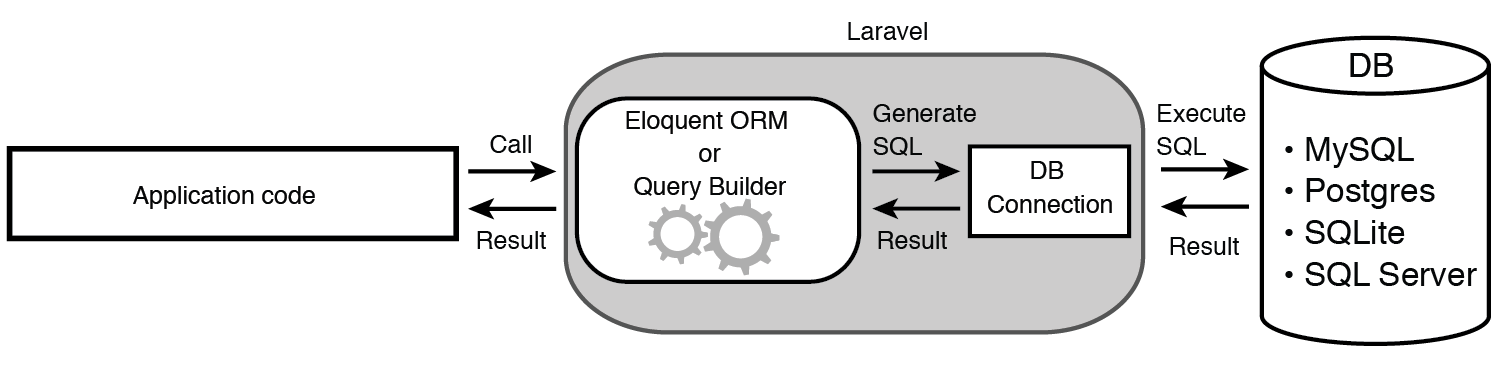
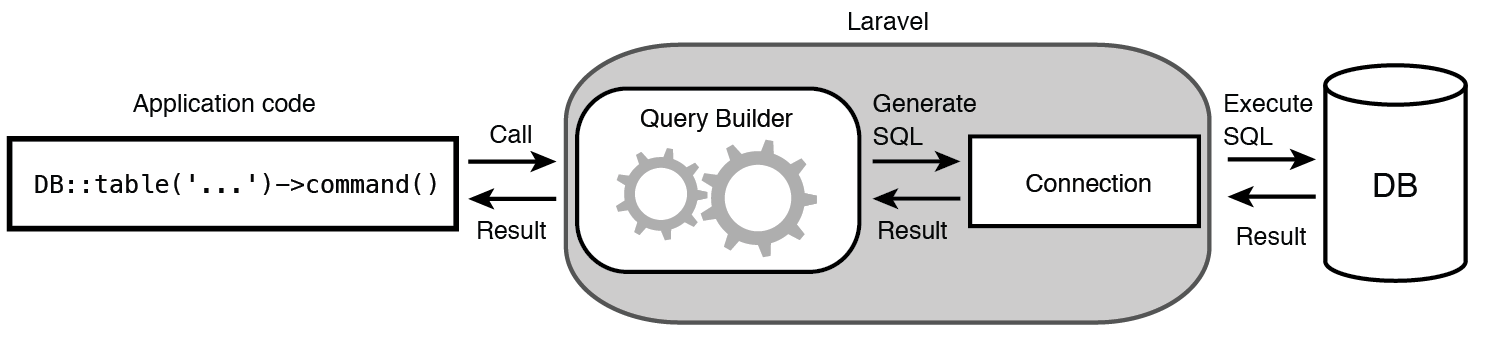
:memo: 完成一部分 using-query-builder

diff --git a/using-query-builder.md b/using-query-builder.md
@@ -1,9 +1,246 @@
 # Laravel Query Builder 原理及用法
 
+>本文翻译自 [《Laravel - My first framework》](https://leanpub.com/laravel-first-framework/)
+
 从 `CURD` 到 `排序` 和 `过滤`，`Query Builder` 提供了方便的操作符来处理数据库中的数据。这些操作符大多数可以组合在一起，以充分利用单个查询。
 
-`Laravel` 一般使用 `DB` facade 来进行数据库查询。当我们执行 `DB` 的「命令」时，`Query Builder` 会构建一个 SQL 查询，该查询将根据 `table()` 方法中指定的表执行查询。
+`Laravel` 一般使用 `DB` facade 来进行数据库查询。当我们执行 `DB` 的「命令」(、或者说「操作符」)时，`Query Builder` 会构建一个 SQL 查询，该查询将根据 `table()` 方法中指定的表执行查询。
 
 ![Executing database operations using Query Builder](./figures/using-query-builder-1.png)
 
 该查询将使用 `app/config/database.php` 文件中指定的数据库连接执行。 查询执行的结果将返回：检索到的记录、布尔值或一个空结果集。
+
+下表中是 `Query Builder` 的常用操作符：
+
+<table>
+    <tr>
+        <td>操作符</td>
+        <td>描述</td>
+    </tr>
+    <tr>
+        <td>insert(array(...))</td>
+        <td>接收包含字段名和值的数组，插入数据至数据库</td>
+    </tr>
+    <tr>
+        <td>find($id)</td>
+        <td>检索一个主键 id 等于给定参数的记录</td>
+    </tr>
+    <tr>
+        <td>update(array(...))</td>
+        <td>接收含有字段名和值的数组，更新已存在的记录</td>
+    </tr>
+    <tr>
+        <td>delete()</td>
+        <td>删除一条记录</td>
+    </tr>
+    <tr>
+        <td>get()</td>
+        <td>返回一个 Illuminate\Support\Collection 结果，其中每个结果都是一个 PHP StdClass 对象的实例，实例中包含每行记录中的列名及其值</td>
+    </tr>
+    <tr>
+        <td>take($number)</td>
+        <td>限制查询结果数量</td>
+    </tr>
+</table>
+
+接下来，将讲解 `Query Builder` 的各种操作。
+
+# Inserting records - 插入
+`insert` 操作符将新行（记录）插入到现有表中。我们可以通过提供数据数组作为 `insert` 运算符的参数来指定要插入到表中的数据。
+
+假设有一个 `orders` 表：
+<table>
+    <tr>
+        <td>Key</td>
+        <td>Column</td>
+        <td>Type</td>
+    </tr>
+    <tr>
+        <td>primary</td>
+        <td>id</td>
+        <td>int (11), auto-incrementing</td>
+    </tr>
+    <tr>
+        <td></td>
+        <td>price</td>
+        <td>int (11)</td>
+    </tr>
+    <tr>
+        <td></td>
+        <td>product</td>
+        <td>varchar(255)</td>
+    </tr>
+</table>
+
+## 插入单行数据
+把数据数组传给 `insert` 操作符，来告诉 `Query Builder` 插入新行：
+```php
+DB::table('orders')->insert(
+    [
+        'price' => 200, // 设置 price 字段值
+        'product' => 'Console', // 设置 product 字段值
+    ]
+);
+```
+
+`Query Builder`将 `insert` 命令转换为特定于 `database.php` 配置文件中指定的数据库的 SQL 查询。 作为参数传递给 `insert` 命令的数据将以参数的形式放入 SQL 查询中。 然后，SQL 查询将在指定的表 "orders" 上执行，执行结果将返回给调用者。  
+下图说明了整个过程：
+
+![Behind the scenes process of running “insert” operator](./using-query-builder-2.png)
+
+>可以看到，Laravel 使用 PDO 来执行 SQL 语句。通过为数据添加占位符来使用准备好的语句可以增强 SQL 注入的保护性，并增加数据插入和更新的安全性。
+
+## 插入多行数据
+`Query Builder` 的 `insert` 操作符同样可用于插入多行数据。 传递一个包含数组的数组可以插入任意数量的行：
+
+```php
+DB::table('orders')->insert(
+    [
+        ['price' => 400, 'product' => 'Laptop'],
+        ['price' => 200, 'product' => 'Smartphone'],
+        ['price' => 50, 'product' => 'Accessory'],
+    ]
+);
+```
+
+此 `insert` 语句将创建三个新记录，Laravel 构建的 SQL 查询是：
+```
+insertinto`orders`(`price`,`product`)values(?,?),(?,?),(?,?)
+```
+
+>可以看到， Laravel 聪明地在一个查询中插入三行数据，而不是运行三个单独的查询。 
+
+# Retrieving records - 检索
+
+`Query Builder` 提供了多种从数据库获取数据的操作符，以灵活的适应许多不同的情况，例如：
+
+*   检索单个记录
+*   检索表中的所有记录
+*   仅检索表中所有记录的特定列
+*   检索表中有限数量的记录
+
+## 检索单个记录
+
+可以使用 `find` 操作符从表中检索单个记录。只需提供要检索的记录的主键的值作为 `find` 的参数，Laravel 将返回该记录作为对象。如果未找到该记录，则返回 `NULL`。
+
+```php
+$order = DB::table('orders')->find(3); 
+
+/*
+object(stdClass)#157 (3) {
+    ["id"]=>string(1) "3"
+    ["price"]=>string(3) "200"
+    ["product"]=>string(10) "Smartphone"
+ }
+ */
+```
+
+> 注意： `find` 操作符以 `id` 作为主键进行查询，如想使用别的主键，请使用其它操作符。
+
+Laravel 构建的 SQL 查询是：
+```
+select * from `orders` where `id` = ? limit 1
+```
+
+## 检索表中的所有记录
+要从表中检索所有记录，可以使用 `get` 操作符而不用任何参数。在指定的表上运行 `get` (前面没有别的操作符) 将会将该表中的所有记录作为对象数组返回。
+
+```php
+$orders = DB::table('orders')->get();
+
+/*
+array(4) { [0]=>
+    object(stdClass)#157 (3) { 
+        ["id"]=>string(1) "1"
+        ["price"]=>string(3) "200"
+        ["product"]=>string(7) "Console"
+    }
+    
+    ... 3 more rows returned as objects ...
+}
+*/
+```
+
+Laravel 构建的 SQL 查询是：
+```
+select * from `orders`
+```
+
+## 检索仅包含特定列的所有记录
+将所需的列名作为参数数组传递给 `get` 运算符，可获得表中所有记录的特定列。
+
+```php
+$orders = DB::table('orders')->get(['id','price']);
+
+/*
+array(4) { [0]=>
+    object(stdClass)#157 (2) {
+        ["id"]=>string(1) "1"
+        ["price"]=>string(3) "200"
+    }
+    ... 3 more rows returned as objects ... 
+}
+*/
+```
+
+Laravel 构建的 SQL 查询是：
+```
+select `id`, `price` from `orders`
+```
+
+## 检索表中有限数量的记录
+要指定要从表中获取的最大记录数，可以使用 `take` 操作符，并将 `get` 附加到查询中。
+
+```php
+$orders = DB::table('orders')->take(50)->get();
+```
+
+$orders 数组中最多有 50 条数据。
+
+# Updating records - 更新
+
+使用 `Query Builder` 更新记录与创建新记录非常相似。要更新现有记录或一组记录的数据，可以将操作符 `update` 附加到查询中，并将一个新数据数组作为参数传递给它。同时可以使用查询链定位要更新的特定记录。
+
+## 更新特定记录
+
+使用 `where` 操作符来指定特定记录并更新：
+```php
+DB::table('orders')
+    ->where('price','>','50')
+    ->update(['price' => 100]);
+```
+
+Laravel 构建的 SQL 查询是：
+```
+update `orders` set `price` = ? where `price` > ?
+```
+
+## 更新所有记录
+如果不限定条件直接使用 `update` ，将更新表中所有记录：
+
+```php
+DB::table('orders')->update(['product'=>'Headphones']);
+```
+
+Laravel 构建的 SQL 查询是：
+```
+update `orders` set `product` = ?
+```
+
+# Deleting records - 删除
+使用 `Query Builder` 从表中删除记录遵循与更新记录相同的模式。 可以使用 `delete` 操作符删除与某些条件匹配的特定记录或删除所有记录。
+
+## 删除特定记录
+使用 `where` 操作符来指定要删除的特定记录：
+
+```php
+DB::table('orders')
+    ->where('product','=','Smartphone')
+    ->delete();
+```
+
+Laravel 构建的 SQL 查询是：
+```
+delete from `orders` where `product` = ?
+```
+

diff --git a/introduction-to-query-builder-and-eloquent.md b/introduction-to-query-builder-and-eloquent.md
@@ -6,6 +6,8 @@
 * Query Builder - 查询构造器
 * Eloquent ORM
 
+![Database operations in Laravel](./introduction-to-query-builder-and-eloquent-1.png)
+
 我们可以单独使用这两个功能，或两者结合起来，以更灵活的进行数据库操作。下面来看看它们的区别。
 
 ## Query Builder
